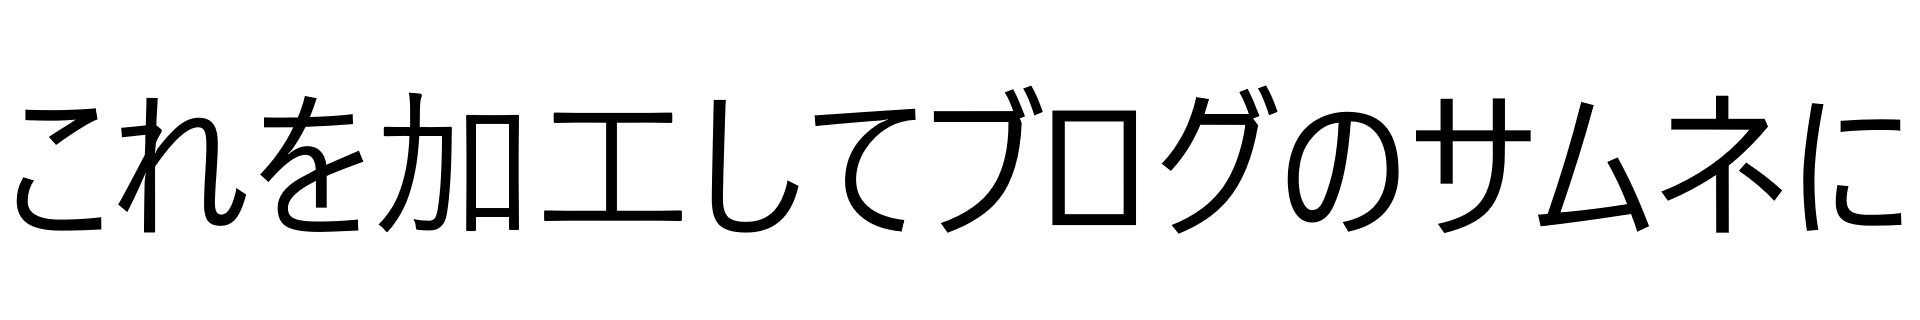
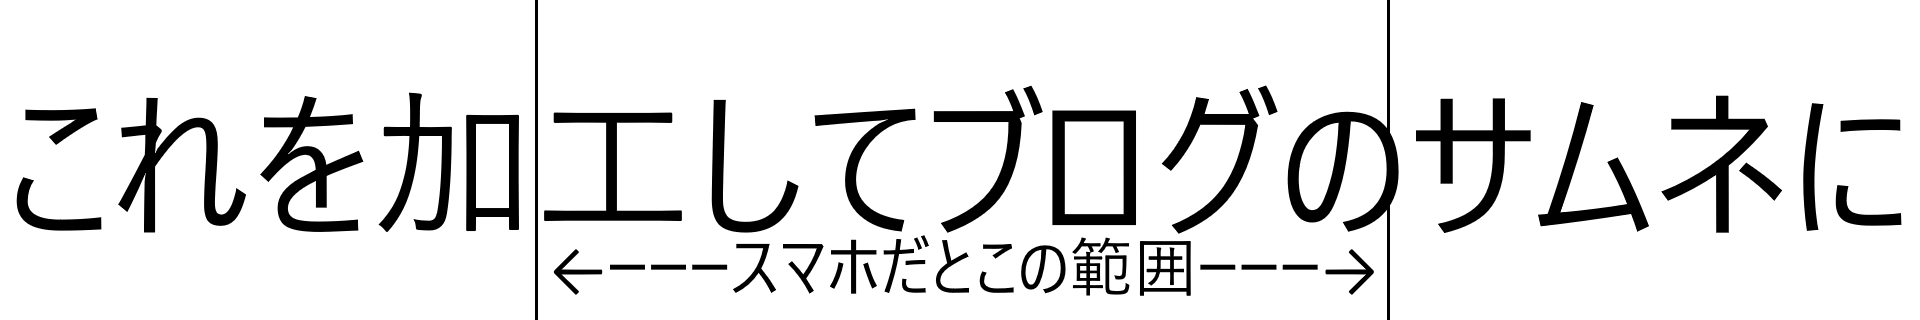
ゲーム紹介を追加

Changed region(s): [[0.2812, 0.75, 0.7188, 0.9375]]

diff --git a/src/content/games/shironishirow.md b/src/content/games/shironishirow.md
@@ -1,0 +1,19 @@
+---
+title: しろにしろ！
+tags: [ゲーム]
+thumbnail: /assets/img/Games関連/shiroサムネ.png
+images:
+  - /assets/img/Games関連/explanation.png
+links:
+  - label: プレイする
+    url: https://unityroom.com/games/shironishirow
+---
+
+<!-- ここに作品の紹介文を書きます -->
+
+2026/7/26～2026/8/2開催のUnity1weekに参加したときに作ったゲームです。
+お題は「しろ」だったので3回ボールを落として穴に沢山入るようにして「#FFFFFF」を目指すという簡単なゲームにしました。開催していることを知ったのが7/30くらいだったのでBGMも何もない質素なゲームになってしまいました汗
+  
+## 遊び方
+
+

diff --git a/src/content/games/yakinikuya_simulate.md b/src/content/games/yakinikuya_simulate.md
@@ -1,7 +1,7 @@
 ---
 title: VR焼肉屋シミュレーター
 tags: [ゲーム]
-thumbnail: /assets/img/Games関連/yakiniku.png
+thumbnail: /assets/img/Games関連/yakiniku.JPG
 images:
   - /assets/img/Games関連/yakinikuサムネ.png
   - /assets/img/Games関連/HowToPlay.png
